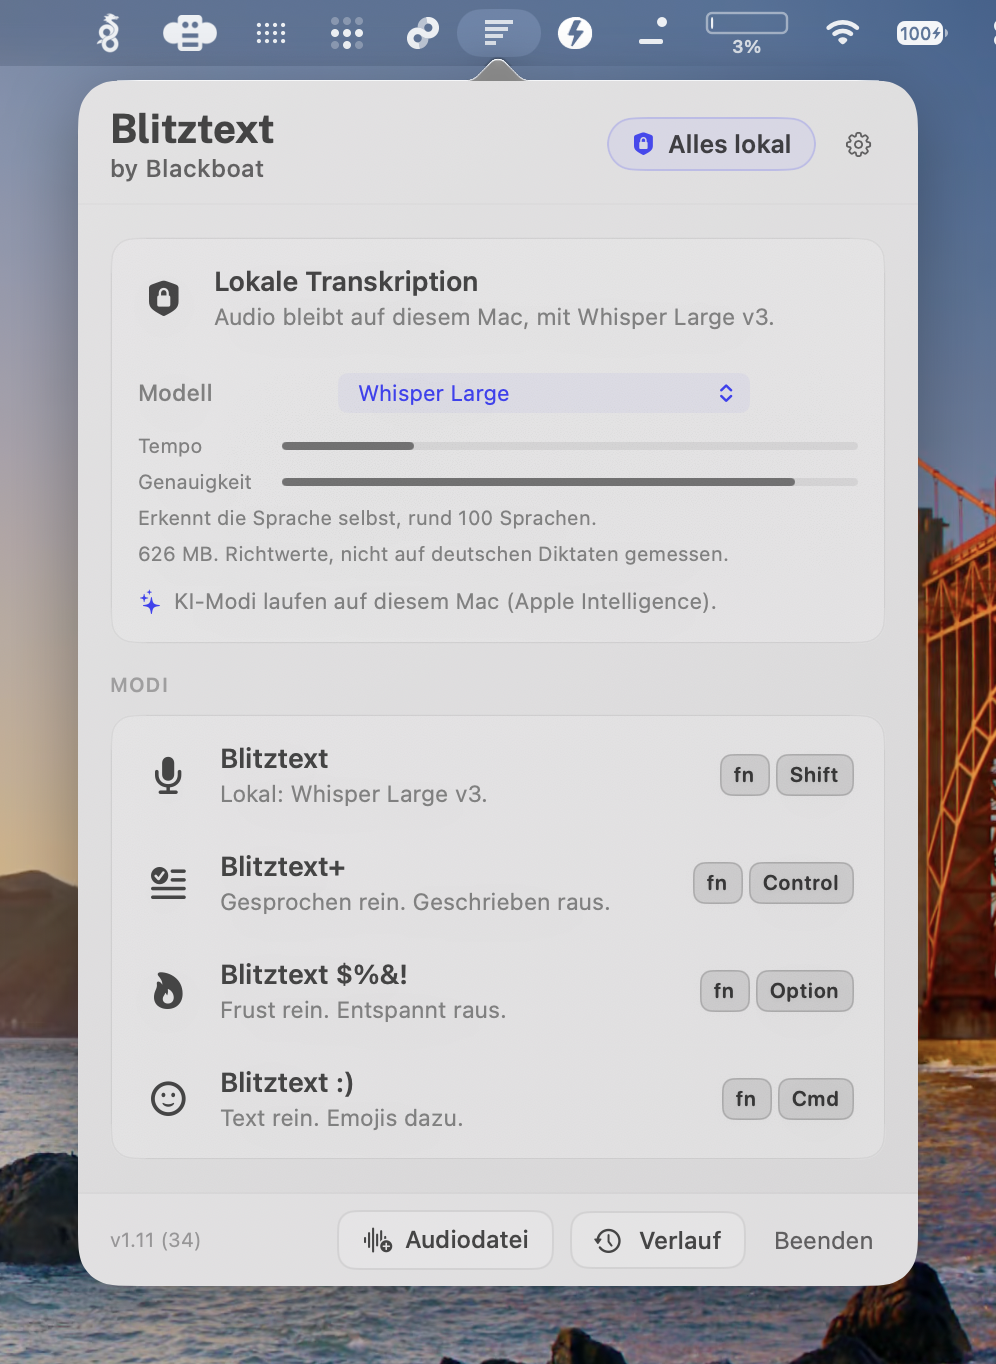
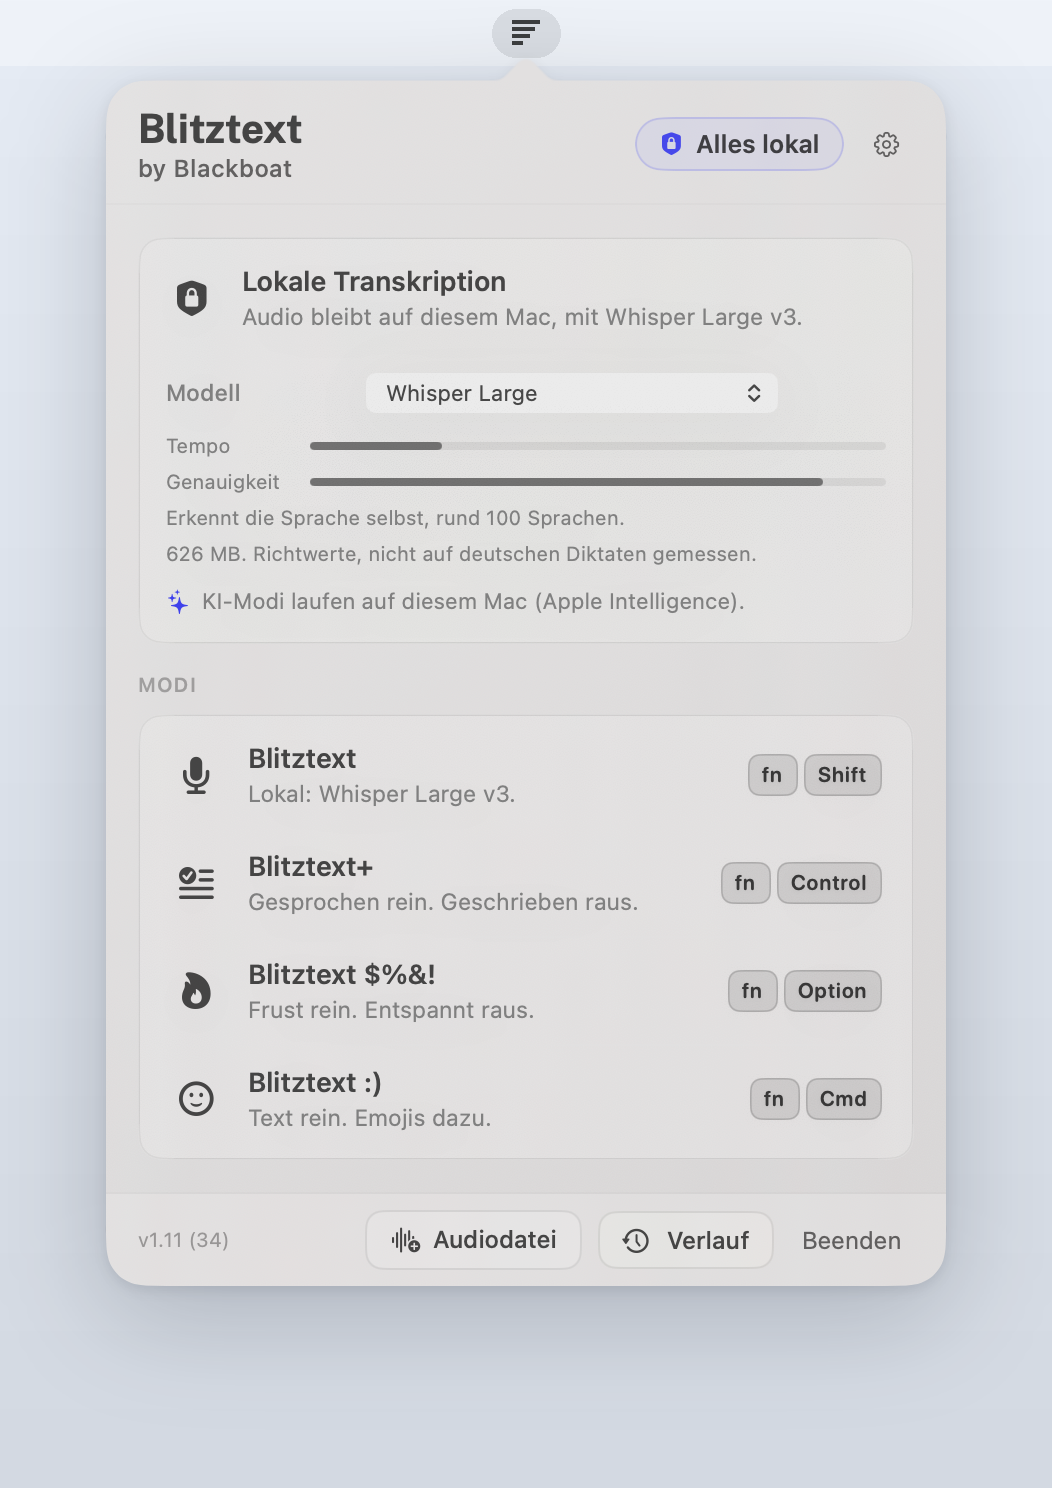
Neutral screenshots, no names of other apps (#23)
- Screenshots on a plain background with a clean menu bar, full Retina resolution
- Acknowledgments, code comments and notices no longer name other apps; the MIT
  copyright and permission notices for adapted code stay, as the license requires

Claude-Session: https://claude.ai/code/session_01SVtM74YHGzCBwWJF2Ms7gu

diff --git a/BlitztextShared/Transcription/HallucinationFilter.swift b/BlitztextShared/Transcription/HallucinationFilter.swift
@@ -3,10 +3,9 @@ import Foundation
 /// Drops text Whisper invents: subtitle credits from its training data ("Untertitel im
 /// Auftrag des ZDF, 2021") and polite closings on silence ("Thank you.", "Vielen Dank.").
 ///
-/// The idea of a phrase list comes from Amical (MIT, https://github.com/amicalhq/amical,
-/// `pipeline/utils/segment-filter.ts`). Amical keys it to Whisper's no-speech
-/// probability, which WhisperKit reports as 0 for these cases, so Blitztext checks how
-/// much of the recording is loud enough to be speech instead.
+/// Whisper's no-speech probability would be the natural gate, but WhisperKit reports it
+/// as 0 for these cases, so Blitztext checks how much of the recording is loud enough to
+/// be speech instead.
 enum HallucinationFilter {
     /// Credits and sign-offs that are never meant as dictation. Normalized, without years.
     static let credits: Set<String> = [

diff --git a/BlitztextMac/Services/ClipboardPasteService.swift b/BlitztextMac/Services/ClipboardPasteService.swift
@@ -5,8 +5,8 @@ private let pasteLogger = Logger(subsystem: "app.blitztext.mac", category: "Past
 
 /// Pastes text via the clipboard and afterwards restores what the user had copied before.
 ///
-/// Approach ported from Handy's "reliable paste" (MIT, https://github.com/cjpais/handy, `paste_tx`):
-/// the transcript is published as a *promise* (`declareTypes(_:owner:)`). AppKit calls
+/// Adapted from MIT-licensed code (see THIRD_PARTY_NOTICES.md): the transcript is
+/// published as a *promise* (`declareTypes(_:owner:)`). AppKit calls
 /// `pasteboard(_:provideDataForType:)` when an app actually reads it, which is our receipt.
 /// The previous clipboard is restored only after that receipt plus a short quiet period,
 /// and only if nobody else changed the clipboard in the meantime. The failure mode is

diff --git a/BlitztextMac/Services/InsertionFitter.swift b/BlitztextMac/Services/InsertionFitter.swift
@@ -4,8 +4,7 @@ import Foundation
 /// capital letter at a sentence start, a lowercase function word mid-sentence and no
 /// period where the sentence goes on. Only the edges of the dictation change.
 ///
-/// Idea from Amical (MIT, https://github.com/amicalhq/amical), which leaves this to the
-/// language model. Here it is plain rules, so it also works for word-for-word dictation.
+/// Plain rules instead of the language model, so it also works for word-for-word dictation.
 enum InsertionFitter {
     static func fit(_ text: String, before: String, after: String) -> String {
         var result = text.trimmingCharacters(in: .whitespacesAndNewlines)

diff --git a/BlitztextMac/Services/SystemAudioMuter.swift b/BlitztextMac/Services/SystemAudioMuter.swift
@@ -5,9 +5,8 @@ import CoreAudio
 /// not run on over the dictation, and restores it exactly as it was.
 ///
 /// Pausing would be nicer but is not safe: since macOS 15.4 apps cannot see what is
-/// playing, so "resume" afterwards could start something that was paused. Muting follows
-/// Amical (MIT, https://github.com/amicalhq/amical): the mute switch, or volume 0 when a
-/// device has none.
+/// playing, so "resume" afterwards could start something that was paused. Muting uses
+/// the mute switch, or volume 0 when a device has none (MIT notice in THIRD_PARTY_NOTICES.md).
 @MainActor
 final class SystemAudioMuter {
     private enum Restore {

diff --git a/BlitztextMac/Services/FocusedFieldReader.swift b/BlitztextMac/Services/FocusedFieldReader.swift
@@ -119,7 +119,7 @@ enum FocusedFieldReader {
 
     private static func enableWebAccessibility(_ app: AXUIElement, bundleID: String?) {
         guard let bundleID, browsersNeedingManualAccessibility.contains(bundleID) else { return }
-        // Not "AXEnhancedUserInterface": Amical found it stalls Chromium on heavy pages.
+        // Not "AXEnhancedUserInterface": it can stall Chromium on heavy pages.
         AXUIElementSetAttributeValue(app, "AXManualAccessibility" as CFString, kCFBooleanTrue)
     }
 

diff --git a/BlitztextMac/Services/TranscriptPostProcessor.swift b/BlitztextMac/Services/TranscriptPostProcessor.swift
@@ -2,7 +2,7 @@ import Foundation
 
 /// Local cleanup applied to raw transcripts before they are pasted or sent to the LLM.
 ///
-/// Ported from Handy (MIT, https://github.com/cjpais/handy, `audio_toolkit/text.rs`):
+/// Adapted from MIT-licensed code (see THIRD_PARTY_NOTICES.md):
 /// - fuzzy correction of custom terms (Levenshtein + Soundex + n-grams, e.g. "Charge B" -> "ChargeBee")
 /// - removal of filler words ("äh", "ähm", "uh", ...)
 /// - collapsing of stutters ("ich ich ich ich" -> "ich")

diff --git a/BlitztextMac/Services/LocalTranscriptionService.swift b/BlitztextMac/Services/LocalTranscriptionService.swift
@@ -77,8 +77,7 @@ struct LocalTranscriptionModel: Identifiable, Hashable {
 }
 
 /// Relative speed and accuracy (0...1) to compare local models at a glance.
-/// Values follow Handy's model catalog (github.com/cjpais/handy, `catalog.json`) and are
-/// a rough guide, not a Blitztext benchmark on German audio.
+/// The values are a rough guide, not a Blitztext benchmark on German audio.
 struct LocalModelRating: Equatable {
     let speed: Double
     let accuracy: Double

diff --git a/THIRD_PARTY_NOTICES.md b/THIRD_PARTY_NOTICES.md
@@ -1,11 +1,11 @@
 # Third-Party Notices
 
-## Handy
+## Transcript cleanup and clipboard restore
 
-Parts of the macOS app are adapted from Handy (https://github.com/cjpais/handy):
+Parts of the macOS app are adapted from code under the MIT License:
 
-- `BlitztextMac/Services/TranscriptPostProcessor.swift`: custom term correction and filler word removal, ported from `src-tauri/src/audio_toolkit/text.rs`
-- `BlitztextMac/Services/ClipboardPasteService.swift`: receipt-based clipboard restore, adapted from `src-tauri/src/paste_tx`
+- `BlitztextMac/Services/TranscriptPostProcessor.swift`: custom term correction and filler word removal
+- `BlitztextMac/Services/ClipboardPasteService.swift`: receipt-based clipboard restore
 
 ```text
 MIT License
@@ -31,14 +31,12 @@ OUT OF OR IN CONNECTION WITH THE SOFTWARE OR THE USE OR OTHER DEALINGS IN THE
 SOFTWARE.
 ```
 
-## Amical
+## Sound muting and browser address
 
-Parts of both apps follow Amical (https://github.com/amicalhq/amical):
+Parts of the macOS app follow code under the MIT License:
 
-- `BlitztextShared/Transcription/HallucinationFilter.swift`: the idea of a list of phrases Whisper invents (`pipeline/utils/segment-filter.ts`)
-- `BlitztextMac/Services/FocusedFieldReader.swift`: reading the browser address through the Accessibility API with `AXManualAccessibility` (`swift-helper`)
-- `BlitztextMac/Services/SystemAudioMuter.swift`: muting the sound output while recording, with volume 0 as fallback (`swift-helper`)
-- The idea of fitting a dictation to the text around the cursor (`BlitztextMac/Services/InsertionFitter.swift`) and of telling the language model that the transcript is not a request (`BlitztextShared/AI/ModePrompts.swift`)
+- `BlitztextMac/Services/SystemAudioMuter.swift`: muting the sound output while recording, with volume 0 as fallback
+- `BlitztextMac/Services/FocusedFieldReader.swift`: reading the browser address through the Accessibility API with `AXManualAccessibility`
 
 ```text
 MIT License

diff --git a/README.md b/README.md
@@ -152,8 +152,6 @@ Independent projects built on the Blitztext idea. They are not maintained or rev
 
 ## Acknowledgments
 
-- **[Handy](https://github.com/cjpais/handy)** for the transcript post-processing and the clipboard restore Blitztext builds on
-- **[Amical](https://github.com/amicalhq/amical)** for ideas on cursor context, website modes and invented Whisper text
 - **[FluidAudio](https://github.com/FluidInference/FluidAudio)** and **NVIDIA** for Parakeet on Core ML
 - **[WhisperKit](https://github.com/argmaxinc/argmax-oss-swift)** by Argmax and **OpenAI** for Whisper
 - **[Sparkle](https://sparkle-project.org)** for updates
